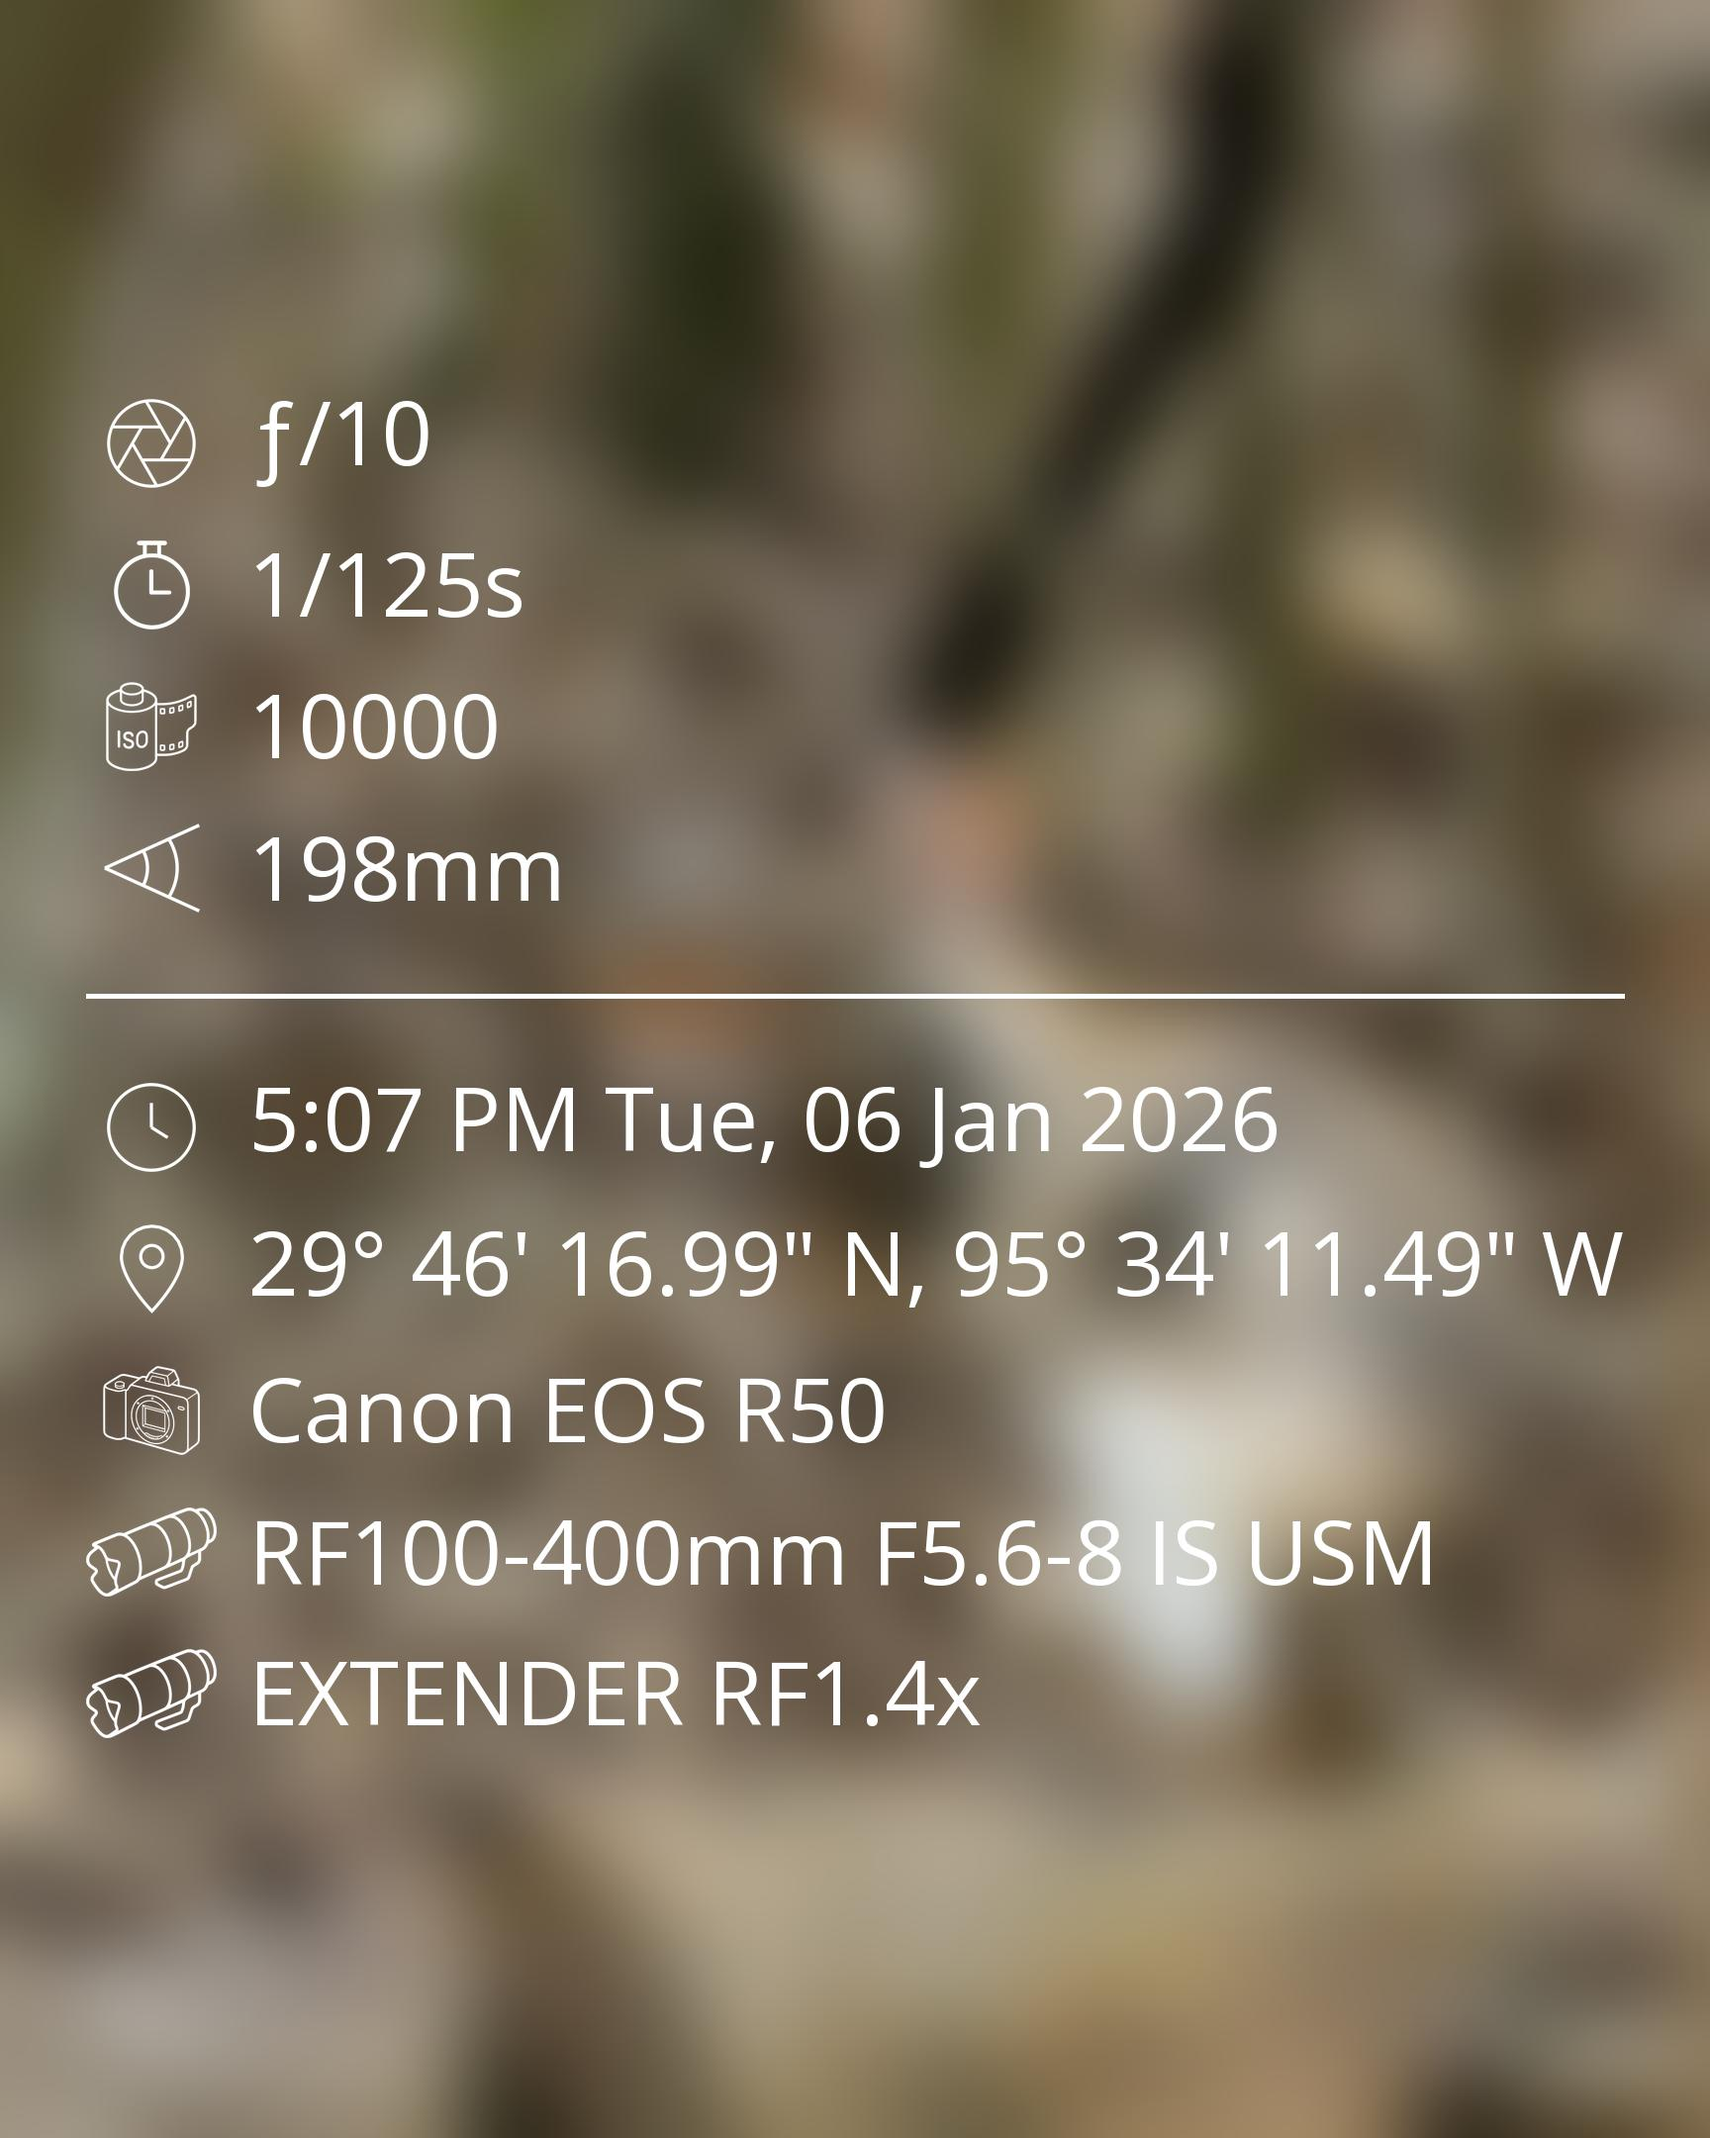
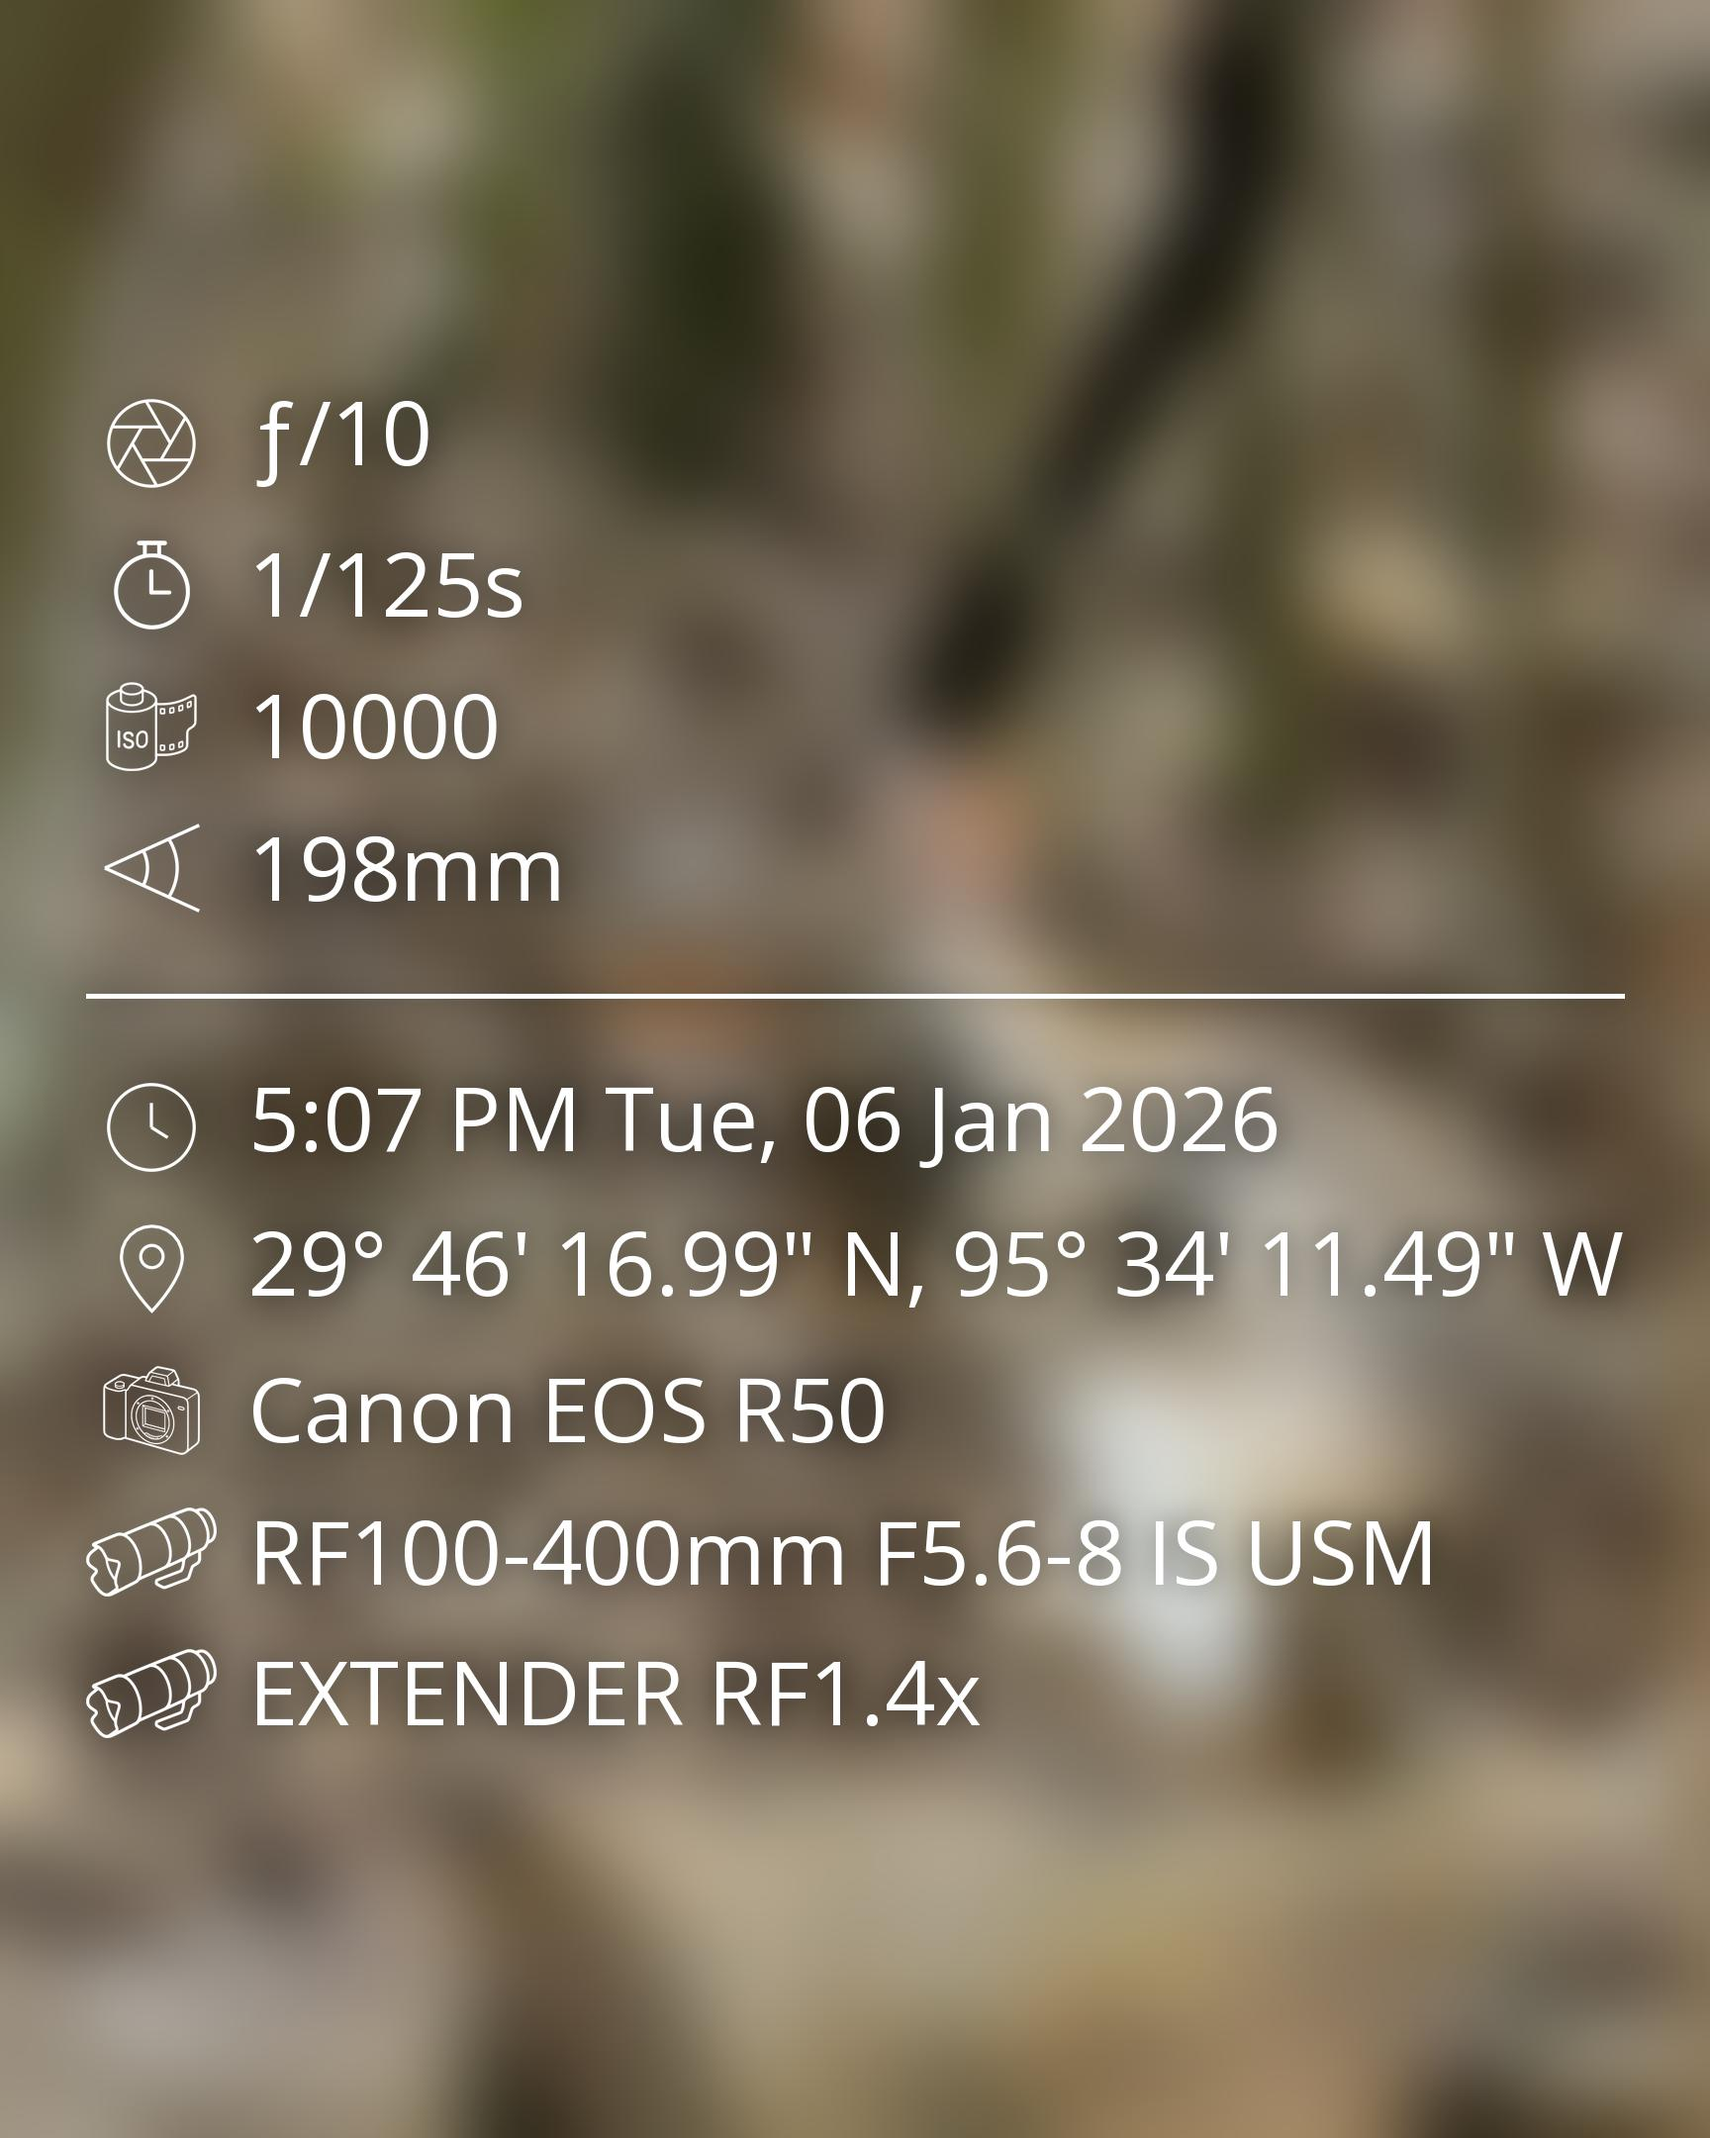
text shadow/highlight for contrast

diff --git a/src/overlay.py b/src/overlay.py
@@ -8,7 +8,7 @@
 
 import os
 
-from PIL import ImageFont
+from PIL import Image, ImageColor, ImageDraw, ImageFilter, ImageFont
 
 from src.formatters import split_lens_extender
 from src.svg_icons import get_icon_aspect, render_svg_icon
@@ -123,7 +123,57 @@ def get_optimized_overlay_font(draw, rows, img_w, img_h, font_path, icon_dir):
     return last_safe_font, last_safe_size, last_safe_layout
 
 
+def get_backdrop_color(font_color):
+    if ImageColor.getrgb(font_color)[:3] == (0, 0, 0):
+        return (255, 255, 255, 118)
+
+    return (0, 0, 0, 118)
+
+
+def draw_overlay_backdrop(image, rows, layout, x, y, font, font_color, icon_dir):
+    mask = Image.new("L", image.size, 0)
+    mask_draw = ImageDraw.Draw(mask)
+    current_y = y
+
+    for i, metric in enumerate(layout["metrics"]):
+        if i > 0:
+            current_y += layout["row_gap"]
+
+        if metric["type"] == "divider":
+            line_y = current_y + metric["margin"]
+            mask_draw.line(
+                (x, line_y, x + layout["width"], line_y),
+                fill=160,
+                width=metric["line_height"],
+            )
+            current_y += metric["height"]
+            continue
+
+        row = metric["row"]
+        icon_path = os.path.join(icon_dir, row["icon"])
+        icon = render_svg_icon(icon_path, metric["icon_height"], "white")
+        icon_x = x + (metric["icon_column_width"] - icon.width) // 2
+        icon_y = current_y + (metric["height"] - icon.height) // 2
+        mask.paste(icon.getchannel("A"), (icon_x, icon_y), icon.getchannel("A"))
+
+        text_x = x + metric["icon_column_width"] + metric["icon_gap"]
+        text_y = (
+            current_y
+            + (metric["height"] - metric["visual_text_height"]) // 2
+            - metric["bbox"][1]
+        )
+        mask_draw.text((text_x, text_y), row["text"], fill=255, font=font)
+        current_y += metric["height"]
+
+    blur_radius = max(4, int(layout["row_gap"] * 0.45))
+    blurred_mask = mask.filter(ImageFilter.GaussianBlur(radius=blur_radius))
+    backdrop = Image.new("RGBA", image.size, get_backdrop_color(font_color))
+    backdrop.putalpha(blurred_mask.point(lambda px: min(130, int(px * 0.7))))
+    image.alpha_composite(backdrop)
+
+
 def draw_overlay_rows(image, draw, rows, layout, x, y, font, font_color, icon_dir):
+    draw_overlay_backdrop(image, rows, layout, x, y, font, font_color, icon_dir)
     current_y = y
 
     for i, metric in enumerate(layout["metrics"]):

diff --git a/src/processor.py b/src/processor.py
@@ -92,7 +92,7 @@ def process_photo(input_path):
 
         img = Image.open(input_path)
         img_w, img_h = img.size
-        blurred_img = img.filter(ImageFilter.GaussianBlur(radius=40))
+        blurred_img = img.filter(ImageFilter.GaussianBlur(radius=40)).convert("RGBA")
         draw = ImageDraw.Draw(blurred_img)
 
         script_dir = os.path.dirname(os.path.abspath(__file__))
@@ -136,7 +136,7 @@ def process_photo(input_path):
             )
 
         output_image = f"{base_name}_blurred.jpg"
-        blurred_img.save(output_image)
+        blurred_img.convert("RGB").save(output_image)
 
         with exiftool.ExifToolHelper() as et:
             et.execute(
